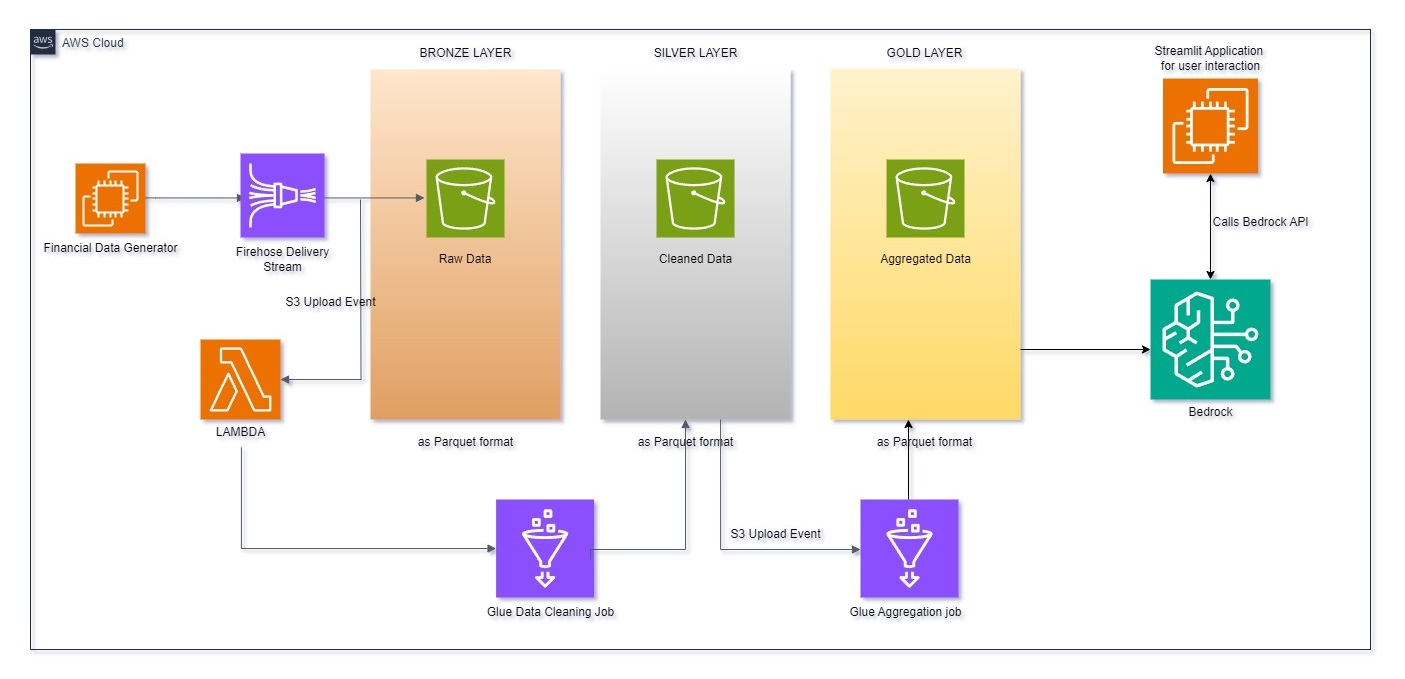
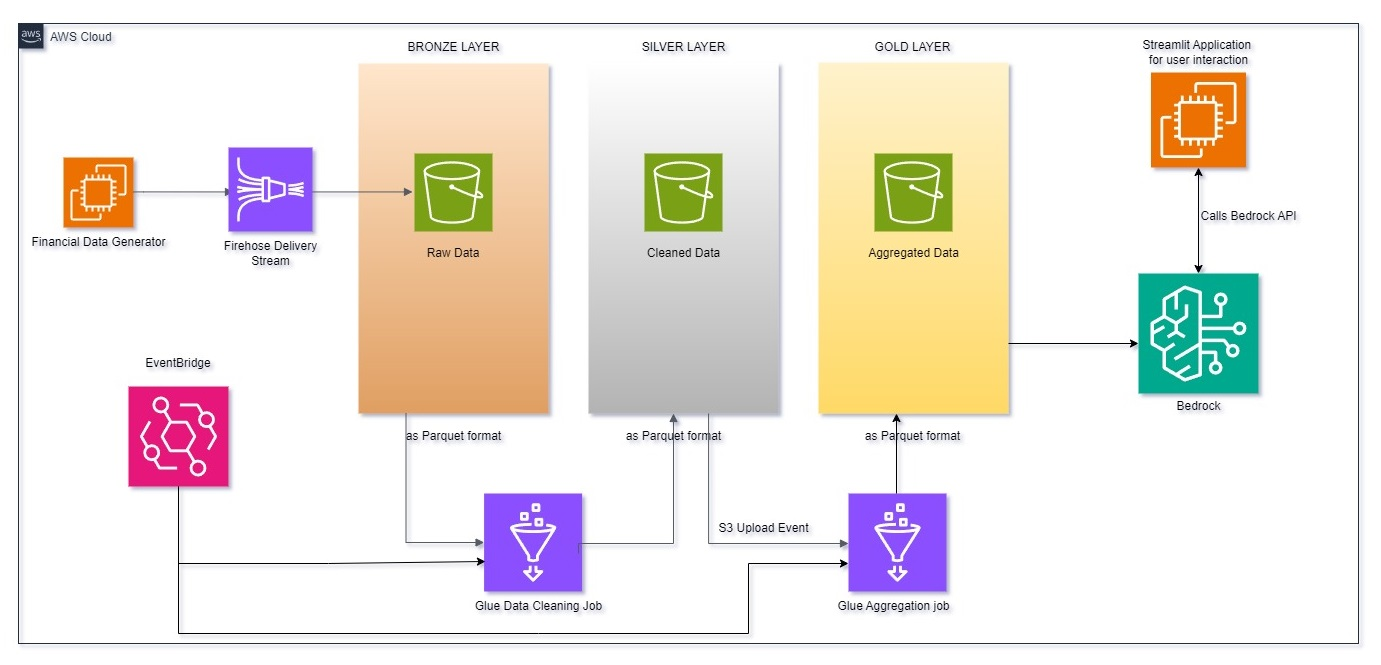
Updated architecture
+ S3 object create event and lambda have been replaced with EventBridge schedules

diff --git a/README.md b/README.md
@@ -1,5 +1,5 @@
 # FinStream-AI
-Real-time interactive AI-driven data analysis and visualization with Python, Streamlit, Glue, AWS Bedrock, Firehose, Lambda
+Real-time interactive AI-driven data analysis and visualization with Python, Streamlit, Glue, AWS Bedrock, Firehose, EventBridge
 
 ## Architecture
 
